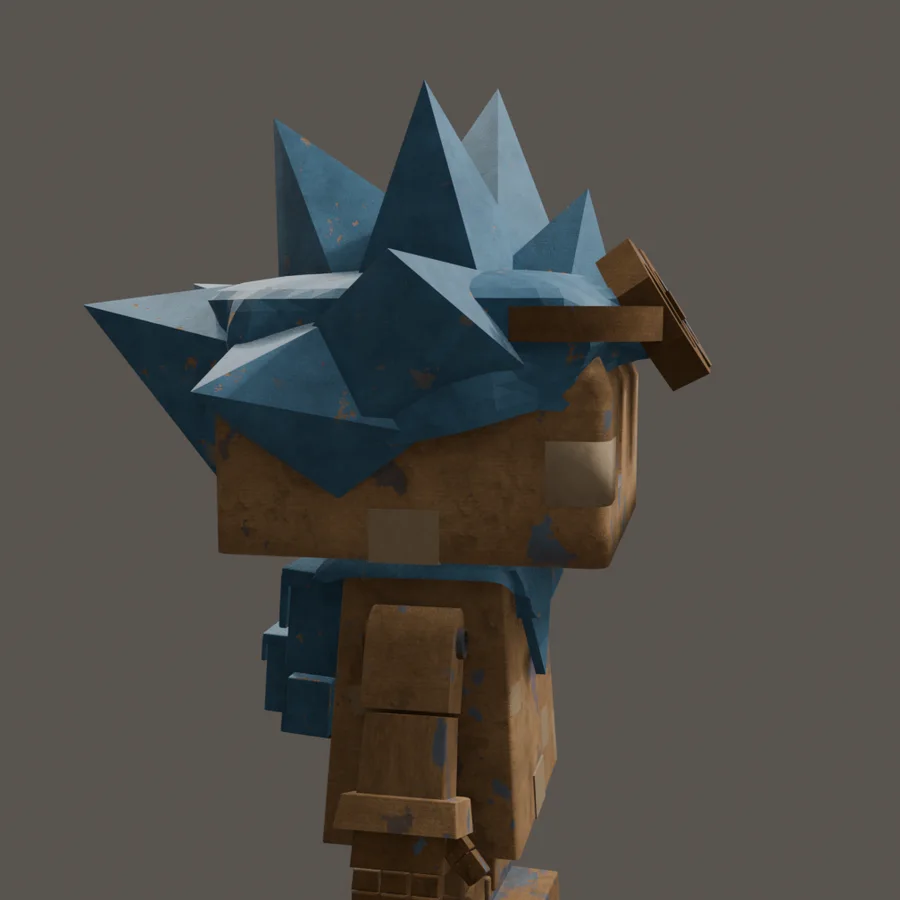
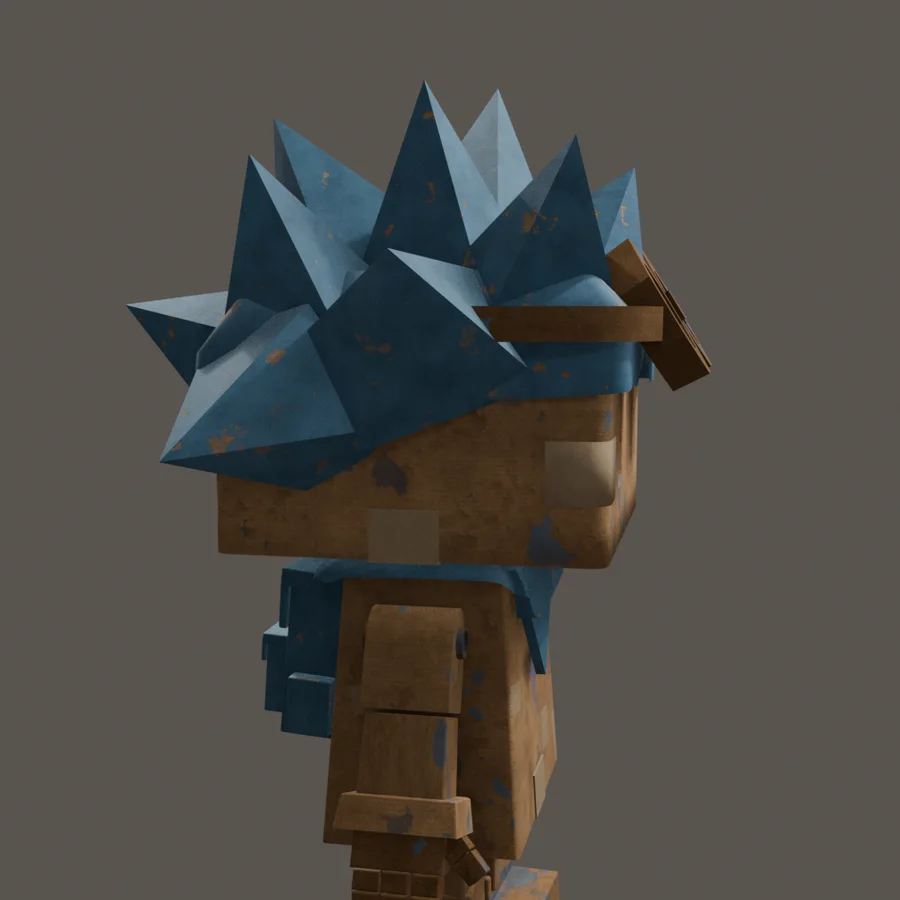
Update new Boxlings post with final KRABBEL and PUK

Changed region(s): [[0.0933, 0.1556, 0.7467, 0.56]]

diff --git a/src/content/blog/new-boxlings.md b/src/content/blog/new-boxlings.md
@@ -48,7 +48,7 @@ KRABBEL is the wild one: a mop of blue cardboard spikes, a pair of octagonal car
 
 ![KRABBEL with blue cardboard spikes, octagonal goggles and a blue bandana](./images/new-boxlings/krabbel-ref.webp)
 
-The hair was the hardest part of all three. The first versions had far too many spikes, which turned his head into a hedgehog. Then they were too flat, like triangles instead of pieces of cardboard with volume. A smooth cap with a few spikes on top didn't work either. What finally worked was a thick base layer of hair with a small number of big, chunky spikes, which I finished by hand.
+The hair was the hardest part of all three. The first versions had far too many spikes, which turned his head into a hedgehog. Then they were too flat, like triangles instead of pieces of cardboard with volume. A smooth cap with a few spikes on top didn't work either: it looked like a helmet with decorations. In the end I modelled the hair myself, as a crown of separate, chunky cardboard spikes of different sizes, with no base layer underneath. Together they form one messy, spiky hairstyle.
 
 The goggles only exist at the front: their strap disappears into the hair at the sides, so from behind you only see his spikes.
 
@@ -56,11 +56,11 @@ The goggles only exist at the front: their strap disappears into the hair at the
 
 ## PUK
 
-PUK is the playful one, with a rounded cardboard cap with cat ears and big round ear cups, like headphones. PUK's emblem is a yellow crown.
+PUK is the playful one, with a cardboard cap with cat ears and big round ear cups, like headphones. PUK's emblem is a yellow crown.
 
 ![PUK with a cardboard cap with cat ears and round ear cups, and a yellow crown on the chest](./images/new-boxlings/puk-ref.webp)
 
-The ears point outwards, which makes PUK look curious and alert. Because they're tilted, the base of each ear didn't fully touch the round cap, so I extended the ears down into the cap. Now they grow out of it as one piece. The yellow also needed a second pass: the first version leaned too much towards orange.
+The cap started out round and soft, but that didn't fit the rest of the Boxlings, so I made it more angular, like a folded piece of cardboard. I also remodelled the ears: two flat cardboard triangles standing straight up, with a lighter inside, which makes PUK look curious and alert. The yellow needed a second pass too: the first version leaned too much towards orange.
 
 ![PUK from the side, with a cat ear and an ear cup](./images/new-boxlings/puk-side.webp)
 
@@ -69,4 +69,5 @@ The ears point outwards, which makes PUK look curious and alert. Because they're
 - **Build a family on one base.** One body and one rig for four characters means every animation I make works for the whole team.
 - **Let the silhouette do the work.** A hat, a hairstyle and ears are what you recognise first, so that's where the design time should go.
 - **Paint, don't stick.** An emblem only feels part of the cardboard when it looks painted on, with brush strokes and wear.
-- **Fewer, bigger shapes.** Ten big spikes read better than fifty small ones.
+- **Fewer, bigger shapes.** A handful of big spikes reads better than fifty small ones.
+- **Some things you just do by hand.** Scripts got me far, but the final hair and ears only felt right once I modelled them myself.
